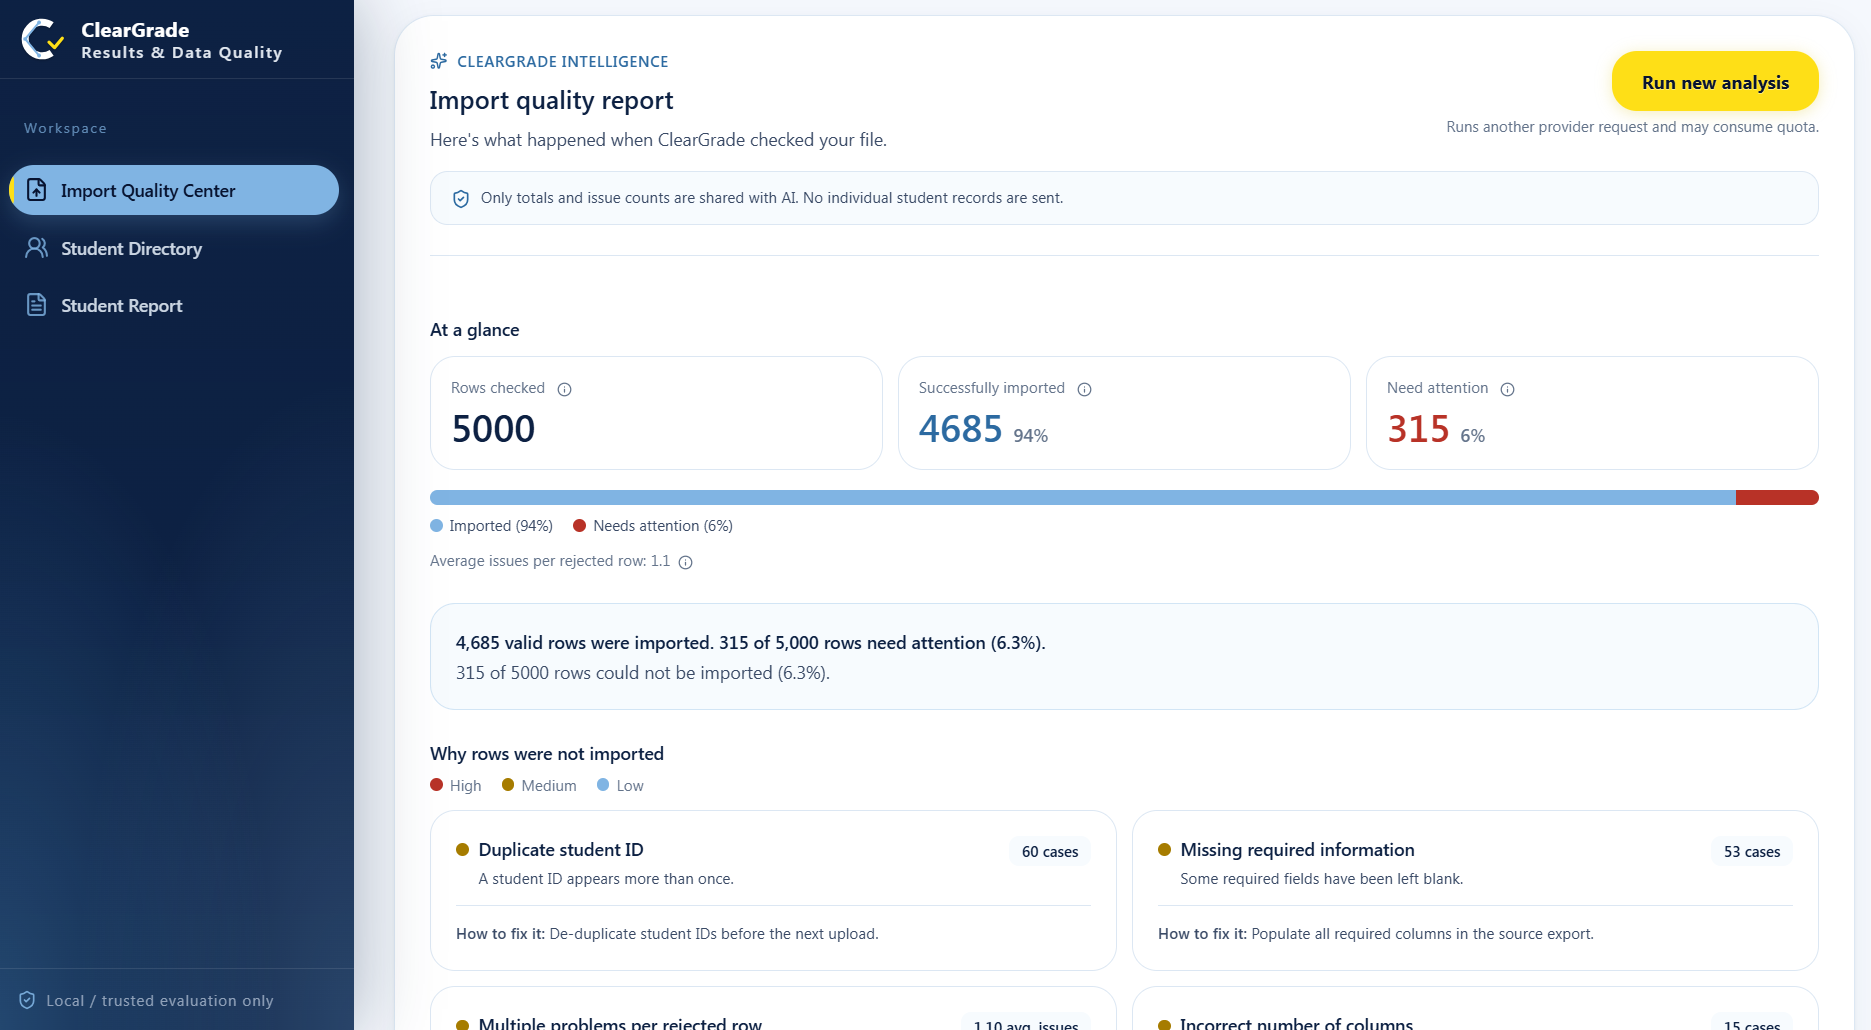
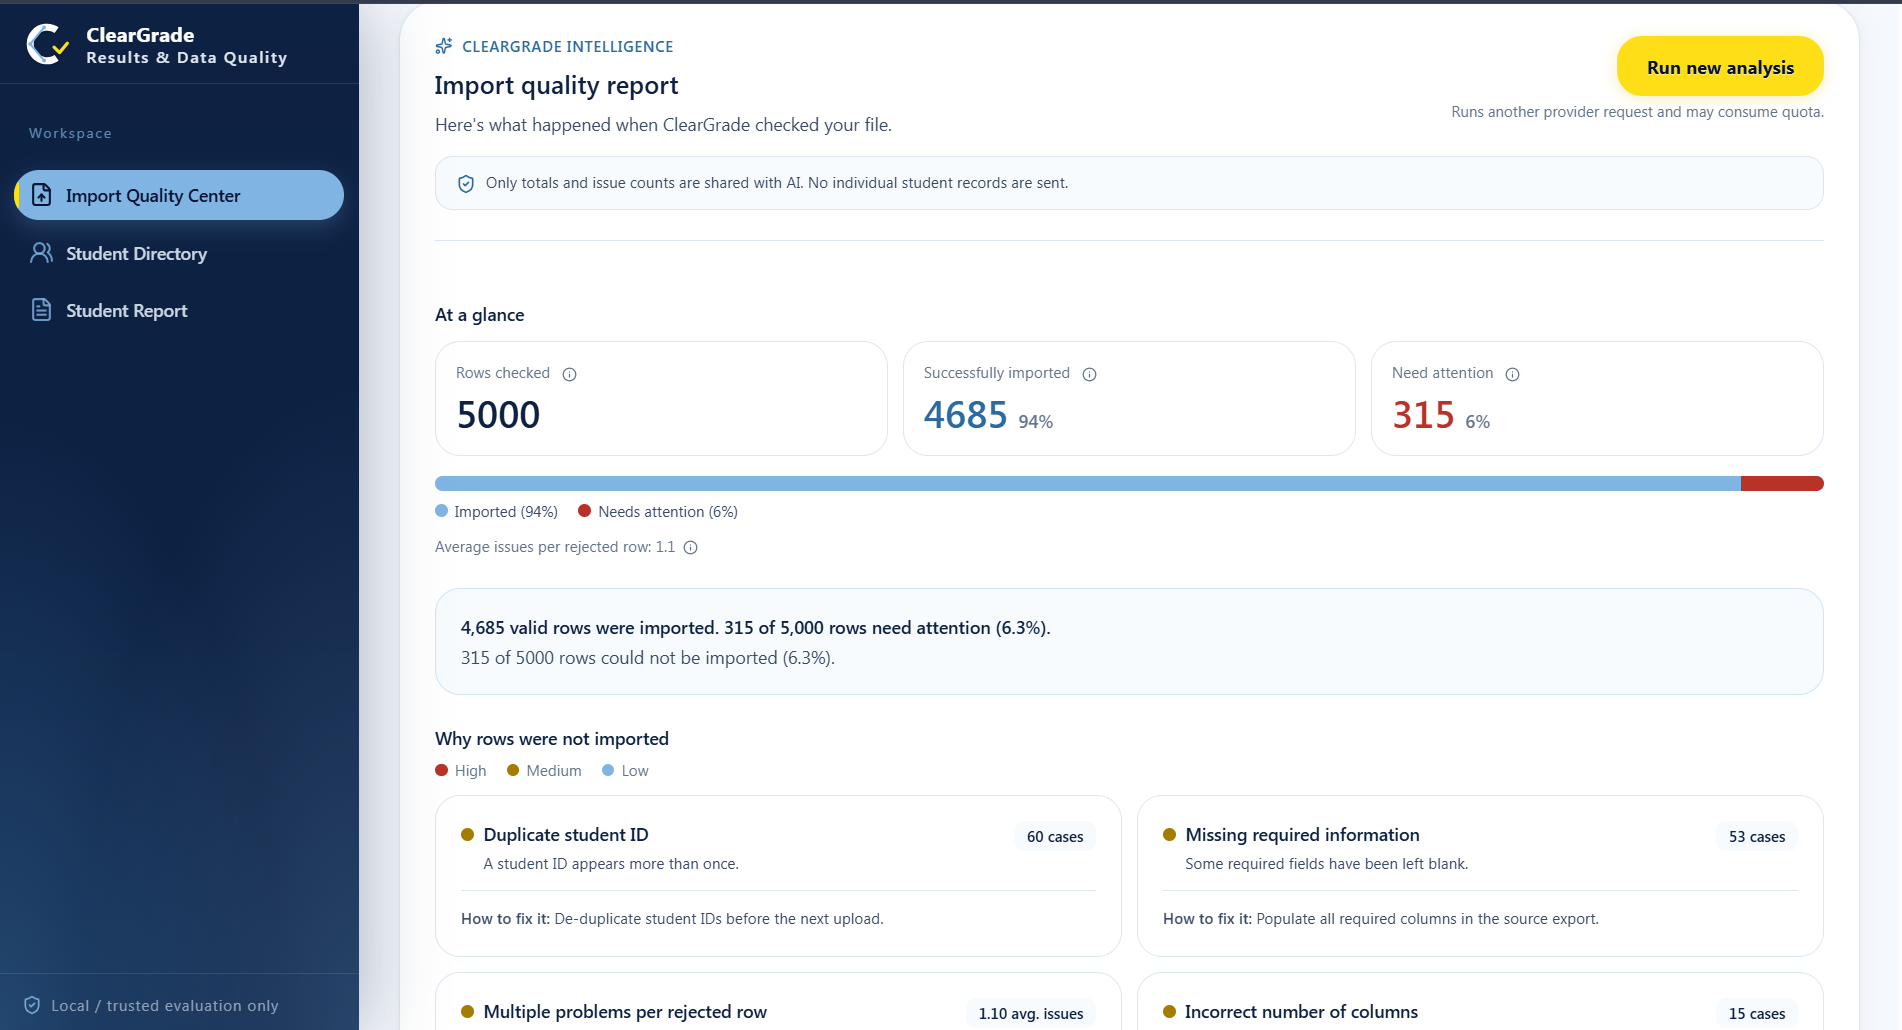
docs(readme): refresh product screenshots and import exports

diff --git a/README.md b/README.md
@@ -71,7 +71,7 @@ For a container-free Windows setup (JDK 21, Node.js 22+ and a native PostgreSQL 
 
 School administrators receive inconsistent CSV exports of student results. A single malformed cell can silently corrupt a record, and a rejected row reported only as "row failed" gives no clue how to fix the source file. ClearGrade makes the import **traceable, deterministic and explainable** — then optionally interprets the measured import quality with an advisory AI copilot.
 
-In one request: upload a CSV, validate every row, import valid students into a searchable directory, report each rejected row with its **physical file line, field, error code and readable message**, compute grades from fixed backend rules, and — only on an explicit click — summarise data quality with a privacy-safe analysis.
+In one request: upload a CSV, validate every row, import valid students into a searchable directory, report each rejected row with its **physical file line, field, error code and readable message**, compute grades from fixed backend rules, and — only on an explicit click — summarise data quality with a privacy-safe analysis. A server-paginated import history lets you revisit any batch, review its summary and problems and download per-batch CSV reports.
 
 | Problem | ClearGrade approach |
 |---|---|
@@ -91,15 +91,23 @@ In one request: upload a CSV, validate every row, import valid students into a s
 
 ### 🧾 Robust CSV ingestion
 
-Apache Commons CSV 1.14.1 with an explicit format: UTF-8 with or without BOM, LF/CRLF/lone CR, quoted commas and embedded newlines, reordered or extra columns. A parser-derived physical line map keeps every reported problem pinned to the real file line, header = 1.
+Apache Commons CSV 1.14.1 with an explicit format: UTF-8 with or without BOM, LF/CRLF/lone CR, quoted commas and embedded newlines, reordered or extra columns. A parser-derived physical line map keeps every reported problem pinned to the real file line, header = 1. Only valid rows are imported; each completed batch stores row counts and a validation-category breakdown shown in the Import Summary and Import Report CSV.
 
 ### 🔍 Explainable rejection reports
 
-Five exact row-level error codes. Every applicable problem on a row is collected — one persisted occurrence per issue — with physical line, raw identifier, field and a message an administrator can act on. Rejected rows are counted separately from problem occurrences.
+Five exact row-level error codes. Every applicable problem on a rejected row is collected — one persisted occurrence per issue — with physical line, raw identifier, field and a message an administrator can act on. Rejected rows are counted separately from problem occurrences and can be paged through in Row Problems.
 
 ### ♻ Idempotent, traceable imports
 
-A SHA-256 digest of the original bytes plus a PostgreSQL partial unique index reserve active content. Repeats return `200` with `deduplicated: true`; concurrent active uploads return `409`; a `FAILED` batch can be retried. Accepted students retain `first_seen_batch_id` and split into new / changed / unchanged counters.
+A SHA-256 digest of the original bytes plus a PostgreSQL partial unique index reserve active content. Re-uploading an identical completed file is idempotent: it returns `200` with `deduplicated: true` and creates no new batch; concurrent active uploads return `409`; a `FAILED` batch can be retried. Accepted students retain `first_seen_batch_id` and split into new / changed / unchanged counters.
+
+### 🕘 Import History
+
+A server-paginated, newest-first list of batches. Open any batch to review its persisted summary and row problems; when you return to the Import Quality Center in the same browser session, the last import is restored automatically.
+
+### ⬇ Per-batch CSV downloads
+
+Two read-only exports are available per batch. The **Import Report CSV** has one summary record of persisted batch metadata and outcome counts. The **Row Problems CSV** has one record per persisted validation issue — line number, student ID when available, field, error code and message — so multiple issues from one rejected row appear as separate records. These exports describe the problems, not the rejected source: the complete original rejected CSV rows are not reconstructed or included.
 
 ### 🤖 ClearGrade Intelligence
 
@@ -111,7 +119,7 @@ A framework-free `GradingPolicy` computes exact percentages with `BigDecimal`: A
 
 ### 📇 Searchable directory and student report
 
-Server-side search over student ID and name, optional grade/section filters, allowlisted sorting and bounded pagination. The student report shows marks, total, derived grade and PASS state with loading, empty, not-found and error states handled in the UI.
+Server-side search over student ID and name, optional grade/section filters, allowlisted sorting and bounded pagination. Use **Find Student Report** to locate a student and open their individual academic report, which shows marks, total, derived percentage, grade and PASS state with loading, empty, not-found and error states handled in the UI.
 
 ### 🧱 Transactional correctness
 
@@ -140,7 +148,7 @@ flowchart LR
 1. The administrator uploads one CSV through `/import`. The backend computes SHA-256 from the original bytes and reserves the batch before parsing.
 2. The CSV adapter normalises headers and maps structural shape; `CsvRowValidator` applies domain rules and collects **every** error occurrence on a row.
 3. In one atomic transaction, accepted rows are upserted, row errors are stored, counts are written and the batch becomes `COMPLETED`. A fatal file error rolls back data and marks the batch `FAILED` separately.
-4. The Import Quality Center shows rows read, new/changed/unchanged, rejected rows and problem occurrences; valid students appear in the searchable directory and individual report.
+4. The Import Quality Center shows rows read, new/changed/unchanged, rejected rows and problem occurrences; valid students appear in the searchable directory and individual report. Each batch also appears in a newest-first, server-paginated history where its summary, problems and CSV exports remain available.
 5. Only on an explicit action does ClearGrade Intelligence interpret the **aggregate** counters. Import itself never calls an AI provider.
 
 <a id="architecture"></a>
@@ -152,7 +160,7 @@ A modular monolith: one Spring Boot deployable with enforced inward dependencies
 ```mermaid
 flowchart TB
     subgraph Client["Browser · React 19 SPA"]
-        UI[Import · Directory · Report · Intelligence panel]
+        UI[Import · History · Directory · Report · Intelligence panel]
     end
     subgraph Server["Spring Boot 4.1.2 · modular monolith"]
         REST[REST adapters + DTOs]
@@ -183,7 +191,7 @@ flowchart TB
 
 | Component | Responsibility |
 |---|---|
-| React SPA | Four screens, typed API client, server state via TanStack Query, responsive layout |
+| React SPA | Import, history, directory and report screens plus the intelligence panel, typed API client, server state via TanStack Query, responsive layout |
 | REST adapters | Multipart upload, DTO mapping, status codes, paginated reads, safe error envelope |
 | CSV adapter | BOM/line-ending handling, header mapping, quoted fields, physical-line map; no business rules |
 | Application layer | Use-case orchestration, ports, validation, routing, cache, transaction boundaries |
@@ -292,20 +300,20 @@ These are captures of the running application using deterministic synthetic demo
 
 <table width="100%" cellspacing="0" cellpadding="0" style="border-collapse: collapse;">
 <tr>
-<td width="50%" valign="top" style="border: 1px solid #d0d7de; padding: 12px; text-align: center;"><a href="docs/screenshots/import-home-page.png"><img src="docs/screenshots/import-home-page.png" alt="Import Quality Center upload page with CSV drop zone and batch lookup" width="100%" /></a><br/><sub><b>Import Quality Center</b> — Upload student results and start validation.</sub></td>
-<td width="50%" valign="top" style="border: 1px solid #d0d7de; padding: 12px; text-align: center;"><a href="docs/screenshots/import-summary.png"><img src="docs/screenshots/import-summary.png" alt="Import summary with row counts, error breakdown and quality metric cards" width="100%" /></a><br/><sub><b>Import Summary</b> — Review row counts, error totals and quality metric cards.</sub></td>
+<td width="50%" valign="top" style="border: 1px solid #d0d7de; padding: 12px; text-align: center;"><a href="docs/screenshots/import-home.png"><img src="docs/screenshots/import-home.png" alt="Import Quality Center with the CSV upload area, validation workflow and batch lookup" width="100%" /></a><br/><sub><b>Import Quality Center</b> — Upload student results and start CSV validation.</sub></td>
+<td width="50%" valign="top" style="border: 1px solid #d0d7de; padding: 12px; text-align: center;"><a href="docs/screenshots/import-history.png"><img src="docs/screenshots/import-history.png" alt="Import History listing previous batches with outcome counts and per-batch CSV download links" width="100%" /></a><br/><sub><b>Import History</b> — Review previous imports, compare outcomes and access per-batch downloads.</sub></td>
 </tr>
 <tr>
-<td width="50%" valign="top" style="border: 1px solid #d0d7de; padding: 12px; text-align: center;"><a href="docs/screenshots/row-problems.png"><img src="docs/screenshots/row-problems.png" alt="Row problems table listing rejected rows with physical line numbers and error codes" width="100%" /></a><br/><sub><b>Row Problems</b> — Inspect rejected rows by physical line, field and error code.</sub></td>
-<td width="50%" valign="top" style="border: 1px solid #d0d7de; padding: 12px; text-align: center;"><a href="docs/screenshots/intelligence-report.png"><img src="docs/screenshots/intelligence-report.png" alt="ClearGrade intelligence report with at-a-glance metrics and issue cards" width="100%" /></a><br/><sub><b>Intelligence Report</b> — Explore the aggregate quality report and at-a-glance metrics.</sub></td>
+<td width="50%" valign="top" style="border: 1px solid #d0d7de; padding: 12px; text-align: center;"><a href="docs/screenshots/import-summary.png"><img src="docs/screenshots/import-summary.png" alt="Import Summary showing imported and rejected row counts with validation-category breakdowns" width="100%" /></a><br/><sub><b>Import Summary</b> — Review imported and rejected row counts and validation-category breakdowns.</sub></td>
+<td width="50%" valign="top" style="border: 1px solid #d0d7de; padding: 12px; text-align: center;"><a href="docs/screenshots/row-problems.png"><img src="docs/screenshots/row-problems.png" alt="Row Problems table listing validation issues by physical line, field, error code and message" width="100%" /></a><br/><sub><b>Row Problems</b> — Inspect individual validation issues by physical line, field and error code.</sub></td>
 </tr>
 <tr>
-<td width="50%" valign="top" style="border: 1px solid #d0d7de; padding: 12px; text-align: center;"><a href="docs/screenshots/intelligence-outcome.png"><img src="docs/screenshots/intelligence-outcome.png" alt="Intelligence issue cards with severity, counts and how-to-fix guidance" width="100%" /></a><br/><sub><b>Intelligence Outcome</b> — Understand why rows failed and how to fix each issue.</sub></td>
-<td width="50%" valign="top" style="border: 1px solid #d0d7de; padding: 12px; text-align: center;"><a href="docs/screenshots/student-directory.png"><img src="docs/screenshots/student-directory.png" alt="Student directory with search, class and section filters, and a student table" width="100%" /></a><br/><sub><b>Student Directory</b> — Search, filter, sort and page through student records.</sub></td>
+<td width="50%" valign="top" style="border: 1px solid #d0d7de; padding: 12px; text-align: center;"><a href="docs/screenshots/intelligence-report.png"><img src="docs/screenshots/intelligence-report.png" alt="ClearGrade Intelligence report with aggregate data-quality insights, measured metrics and recommendations" width="100%" /></a><br/><sub><b>Intelligence Report</b> — Explore aggregate data-quality insights, measured metrics and recommendations.</sub></td>
+<td width="50%" valign="top" style="border: 1px solid #d0d7de; padding: 12px; text-align: center;"><a href="docs/screenshots/student-directory.png"><img src="docs/screenshots/student-directory.png" alt="Student Directory with name search, class and section filters, and a paginated student table" width="100%" /></a><br/><sub><b>Student Directory</b> — Search, filter and browse imported student records.</sub></td>
 </tr>
 <tr>
-<td width="50%" valign="top" style="border: 1px solid #d0d7de; padding: 12px; text-align: center;"><a href="docs/screenshots/student-report.png"><img src="docs/screenshots/student-report.png" alt="Student report finder showing search results for a student name" width="100%" /></a><br/><sub><b>Student Report Finder</b> — Search by student name or ID to open a full report.</sub></td>
-<td width="50%" valign="top" style="border: 1px solid #d0d7de; padding: 12px; text-align: center;"><a href="docs/screenshots/individual-report.png"><img src="docs/screenshots/individual-report.png" alt="Individual student report showing overall result, grade and subject marks" width="100%" /></a><br/><sub><b>Individual Report</b> — View one student's marks, result and grade.</sub></td>
+<td width="50%" valign="top" style="border: 1px solid #d0d7de; padding: 12px; text-align: center;"><a href="docs/screenshots/find-student-report.png"><img src="docs/screenshots/find-student-report.png" alt="Find Student Report search listing matching students to open an individual academic report" width="100%" /></a><br/><sub><b>Find Student Report</b> — Find a student and open their individual academic report.</sub></td>
+<td width="50%" valign="top" style="border: 1px solid #d0d7de; padding: 12px; text-align: center;"><a href="docs/screenshots/student-report.png"><img src="docs/screenshots/student-report.png" alt="Individual Student Report showing subject marks, total, percentage and derived grade" width="100%" /></a><br/><sub><b>Individual Student Report</b> — Review student marks, totals, percentages and grades.</sub></td>
 </tr>
 </table>
 
@@ -318,14 +326,17 @@ All application endpoints live under `/api`. Management is a separate path: only
 | Method | Endpoint | Purpose |
 |---|---|---|
 | `POST` | `/api/imports` | Upload CSV (multipart field `file`); `201` new or `200` deduplicated |
+| `GET` | `/api/imports` | Server-paginated history (`page`, `size`), newest first |
 | `GET` | `/api/imports/{id}` | Batch summary |
 | `GET` | `/api/imports/{id}/errors` | Paged row problems (`page`, `size`, `code`) |
+| `GET` | `/api/imports/{id}/report` | Import Report CSV: one summary record |
+| `GET` | `/api/imports/{id}/row-problems` | Row Problems CSV: one record per issue |
 | `GET` | `/api/students` | Paged directory (`query`, `grade`, `section`, `sort`) |
 | `GET` | `/api/students/{studentId}` | Student report with derived grading |
 | `GET` | `/api/ai/status` | Safe provider/routing snapshot, no inference |
 | `POST` | `/api/imports/{id}/insights` | Explicit aggregate analysis, no request body |
 
-Reads return `200`; the common failure codes are summarised below.
+Reads return `200`; the common failure codes are summarised below. The two per-batch CSV endpoints stream `text/csv` attachments: a single record of persisted batch metadata and outcome counts, or one record per validation issue (line, student ID when available, field, code and message) rather than the complete original rejected rows.
 
 ```powershell
 # Upload a CSV
@@ -442,7 +453,7 @@ docker compose down   # stop containers; keep the PostgreSQL volume
 | Request behaviour | Explicit trigger only; single-flight coalescing; optional cooldown; no automatic Gemini POST retry |
 | Model limits | Low thinking, bounded output tokens; the 1 B Ollama model has produced malformed explanation wording in testing, which strict validation rejects before the fallback chain continues |
 | Database | Native PostgreSQL 18 vs. container/Testcontainers PostgreSQL 16; Flyway V1 owns schema, Hibernate validates only |
-| Application scope | Current-result snapshot only; no term/year, no batch-list endpoint; no authentication |
+| Application scope | Current-result snapshot only; no term/year; server-paginated batch history (max 100 per page); no authentication |
 
 > [!IMPORTANT]
 > Gemini-generated interpretation is advisory, not independently verified fact. AI receives aggregate counters only and cannot change data. Keep the application on loopback/trusted networks.
@@ -503,9 +514,8 @@ cleargrade/
 Implemented scope is complete; the following are **deferred or unverified**, not shipped features:
 
 - Authentication and multi-tenancy before any non-local deployment.
-- A batch-history/list endpoint backed by the existing `import_batch` table.
 - A persistent, privacy-safe per-batch insight cache that survives restarts.
-- Deferred UI extras: error-CSV download, per-subject mark bars and printable report.
+- Deferred UI extras: per-subject mark bars and a printable report.
 - A recovery sweep for stale `RECEIVED` batches after an interrupted startup.
 - Live Gemini verification with a user-supplied key; browser E2E automation in CI.
 - The exact pragmatic email grammar boundary remains an explicit owner decision.
